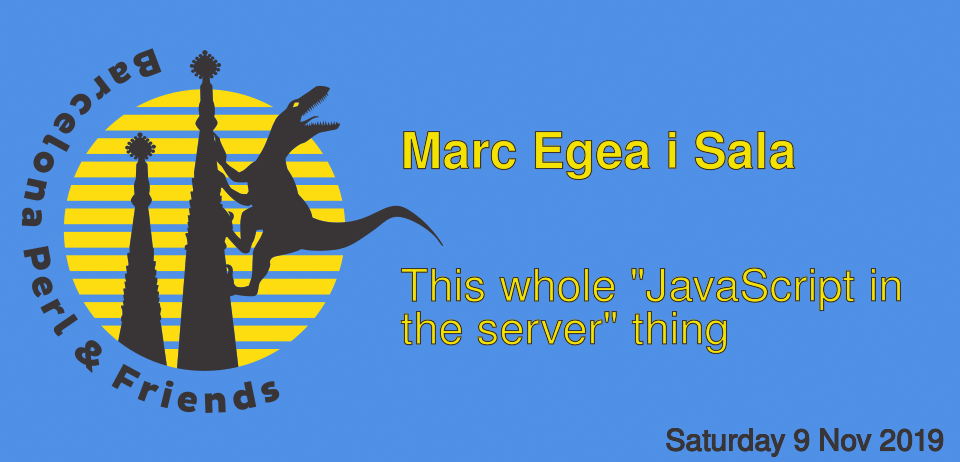
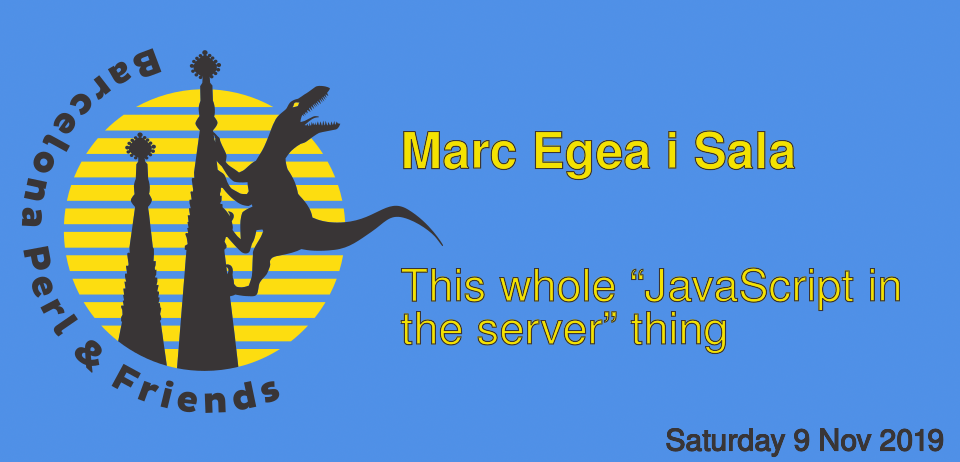
Fix quotes for meis talk
Og viewers seem to cut summaries and descriptions when they find the "
symbol. I'm trying to bypass this by replacing it with “”.

Changed region(s): [[0.625, 0.5758, 0.9375, 0.7576]]

diff --git a/2019/talks/this-whole-javascript-in-the-server-thing.html b/2019/talks/this-whole-javascript-in-the-server-thing.html
@@ -2,10 +2,10 @@
   <head>
     <title>Barcelona Perl & Friends 2019</title>
     <meta name="twitter:card" content="summary_large_image" />
-    <meta name="twitter:title" content= "Marc Egea i Sala - This whole "JavaScript in the server" thing"/>
+    <meta name="twitter:title" content= "Marc Egea i Sala - This whole “JavaScript in the server” thing"/>
     <meta property="og:site_name" content="Barcelona Perl & Friends 2019"/>
     <meta property="og:url" content="friends.barcelona.pm" />
-    <meta property="og:description" content="It's been around for a while, but recently I had difficulties answering the question of "What is Node.js?". In this talk, I'll try to explain what is Node and why is not only relevant, but quite fun. Asynchronous programming is key to understand the JavaScript hegemony, so we'll spend some time explaining the event loop. Other relevant topics will be V8, npm, async/await or transpilation.
+    <meta property="og:description" content="It's been around for a while, but recently I had difficulties answering the question of “What is Node.js?”. In this talk, I'll try to explain what is Node and why is not only relevant, but quite fun. Asynchronous programming is key to understand the JavaScript hegemony, so we'll spend some time explaining the event loop. Other relevant topics will be V8, npm, async/await or transpilation.
 " />
     <meta property="og:image" content="http://friends.barcelona.pm/2019/images/talks/this-whole-javascript-in-the-server-thing.png" />
   </head>

diff --git a/2019/index.html b/2019/index.html
@@ -248,11 +248,11 @@ Last year I've talked about using the mojolicious distribution for everything bu
             <li class="icon fa-spinner" id="/talks/this-whole-javascript-in-the-server-thing">
               
 
-              <h3>This whole "JavaScript in the server" thing</h3>
+              <h3>This whole “JavaScript in the server” thing</h3>
               <h4>Marc Egea i Sala</h4>
 
               <p>
-It's been around for a while, but recently I had difficulties answering the question of "What is Node.js?". In this talk, I'll try to explain what is Node and why is not only relevant, but quite fun. Asynchronous programming is key to understand the JavaScript hegemony, so we'll spend some time explaining the event loop. Other relevant topics will be V8, npm, async/await or transpilation.
+It's been around for a while, but recently I had difficulties answering the question of “What is Node.js?”. In this talk, I'll try to explain what is Node and why is not only relevant, but quite fun. Asynchronous programming is key to understand the JavaScript hegemony, so we'll spend some time explaining the event loop. Other relevant topics will be V8, npm, async/await or transpilation.
 </p>
 
 
